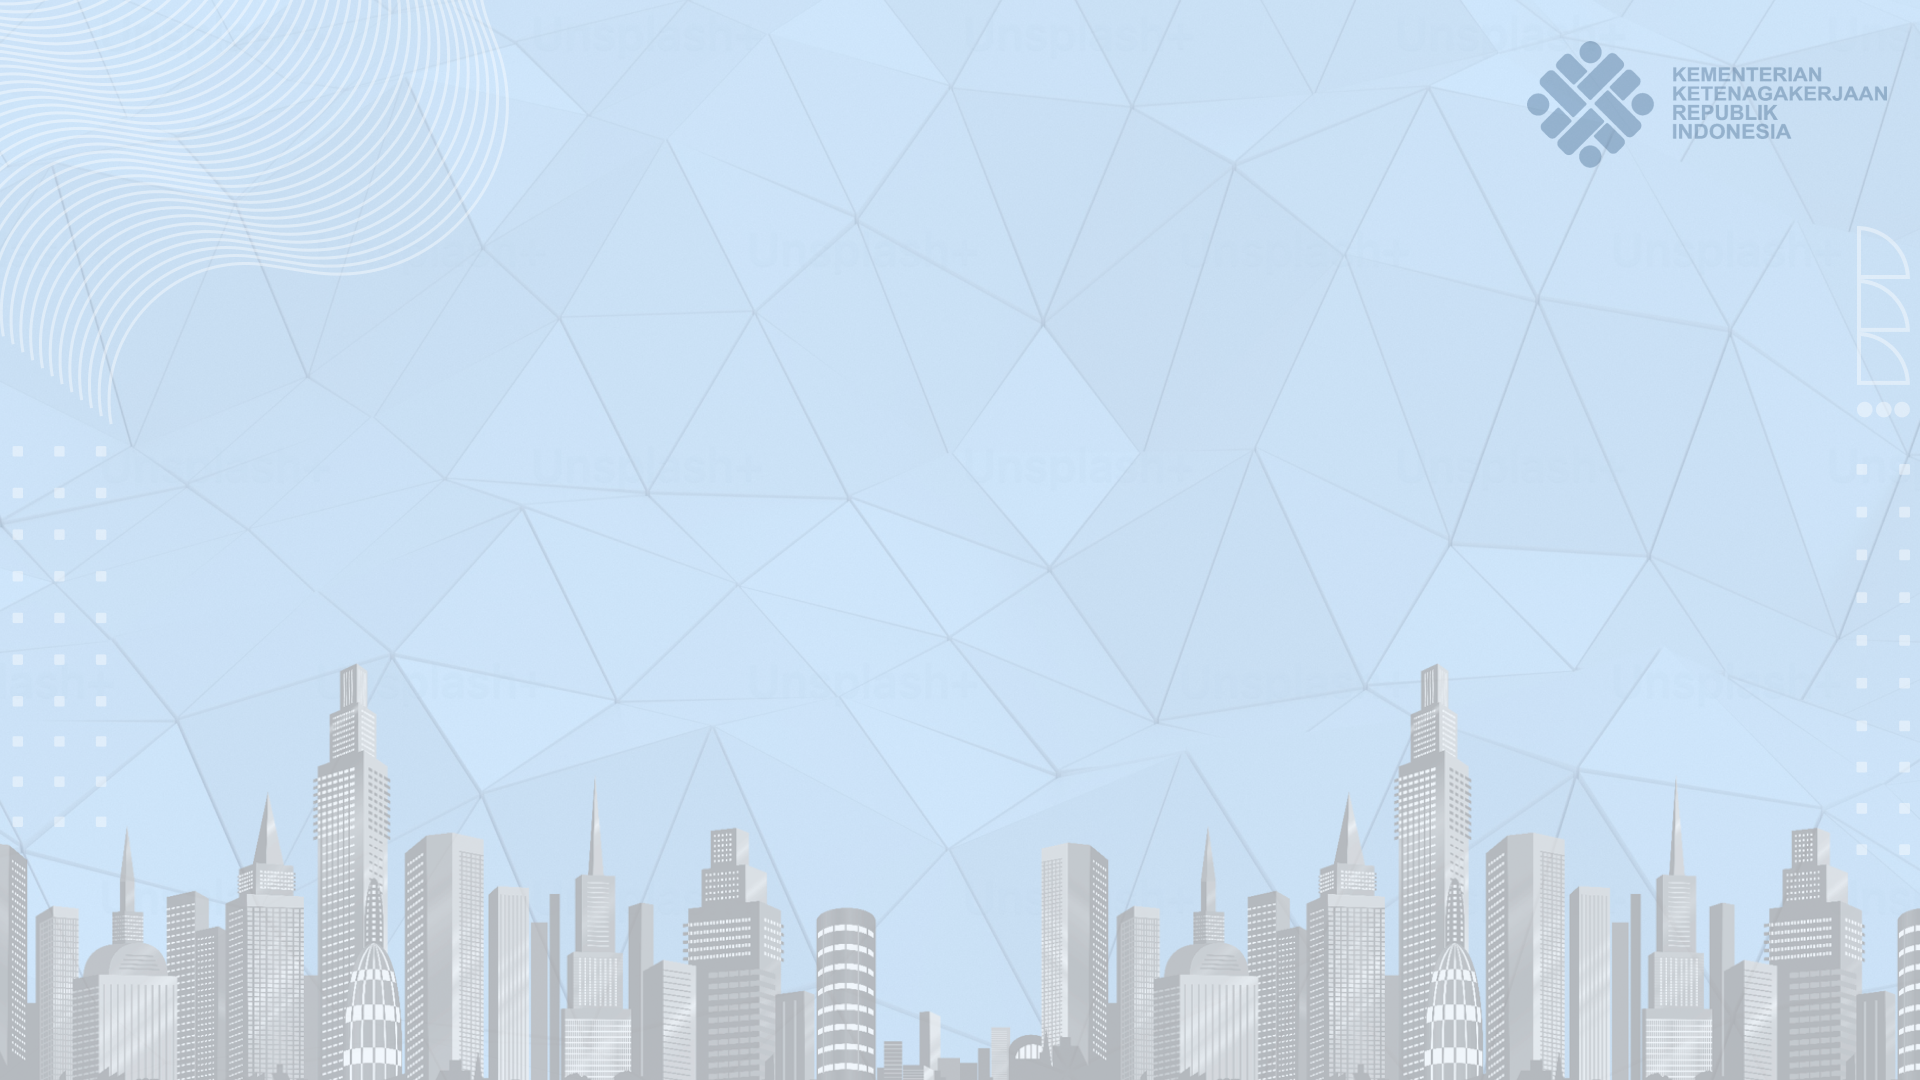
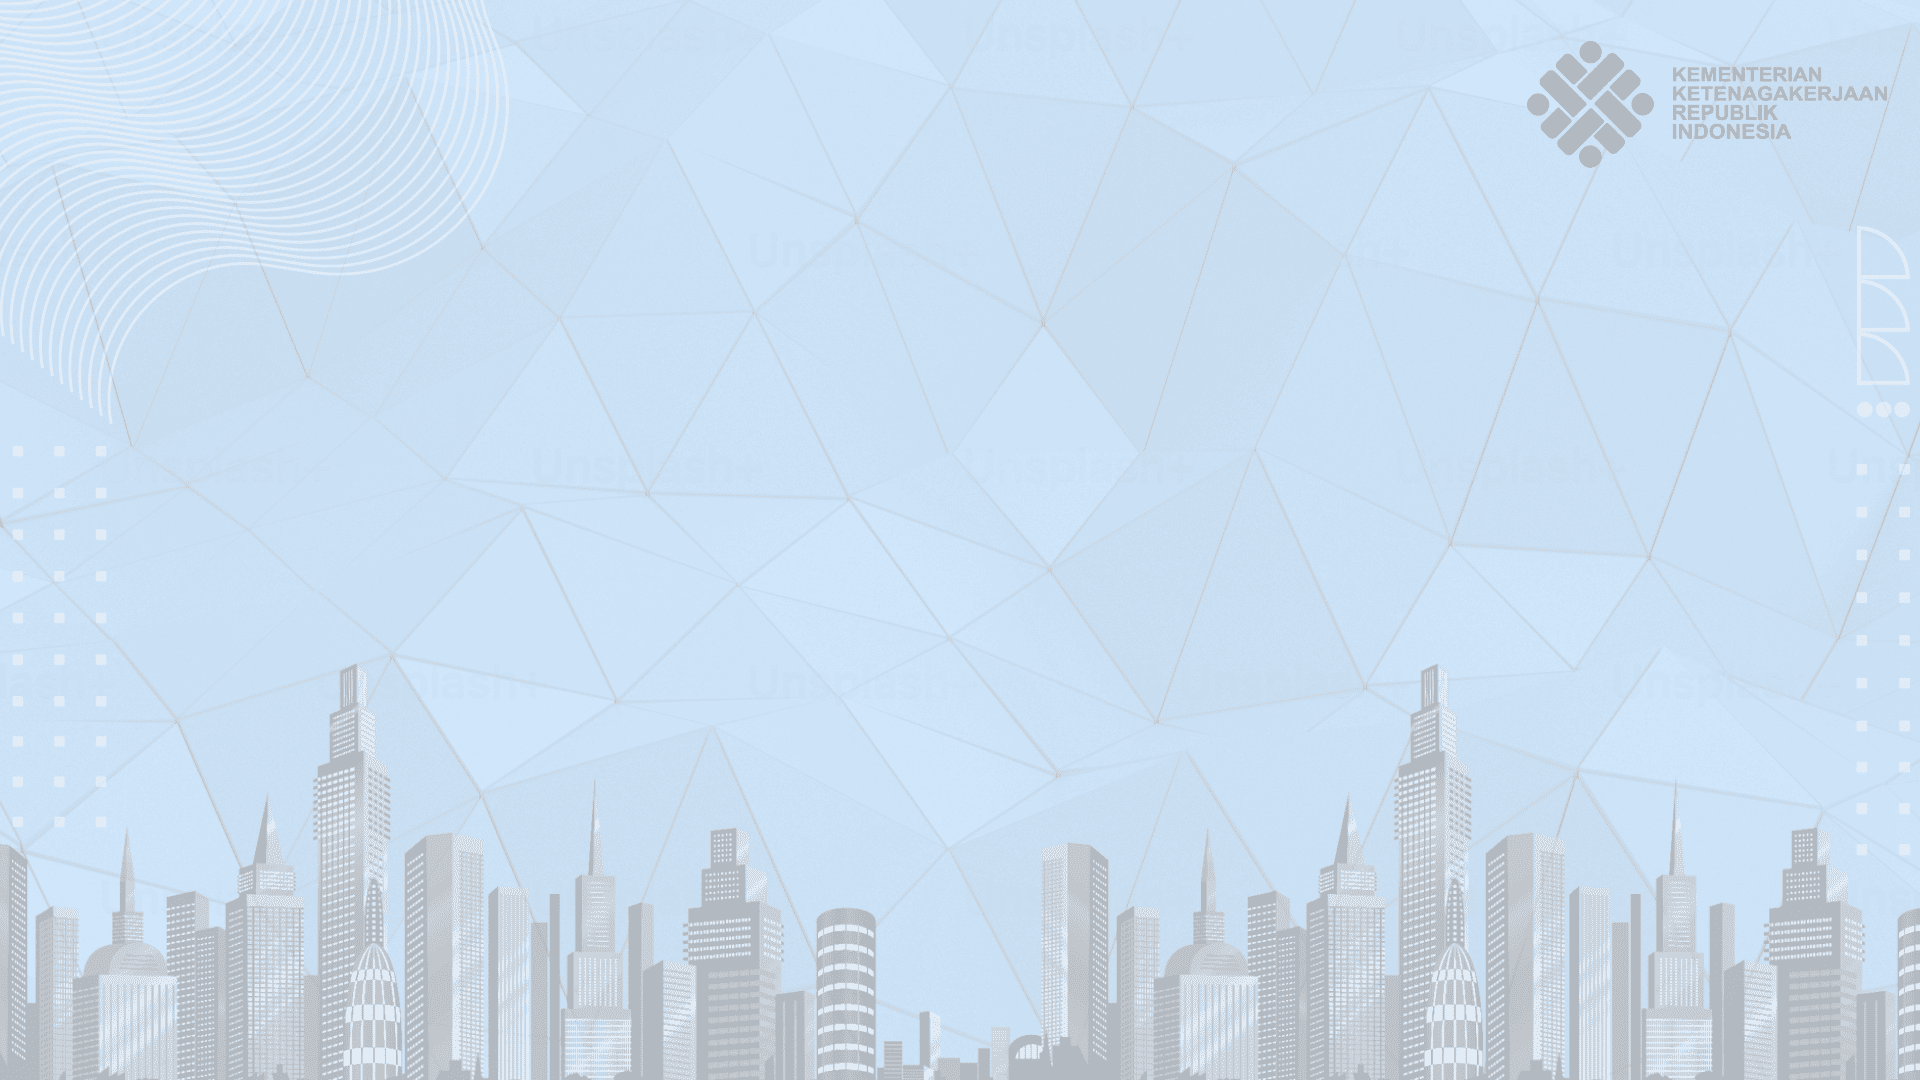
update login page

Changed region(s): [[0.7812, 0.0306, 0.9688, 0.1528]]

diff --git a/public/css/crmhq/style.css b/public/css/crmhq/style.css
@@ -26016,7 +26016,7 @@ th.fc-day-header {
   align-items: center;
   justify-content: center;
   margin: 0 auto;
-  background: url("../images/login/login_bg.jpg");
+  background: url("../../img/bg-kemnaker.png");
   background-size: cover;
   background-position: center;
   padding: 30px 12px;

diff --git a/resources/views/auth/login.blade.php b/resources/views/auth/login.blade.php
@@ -1,225 +1,85 @@
-@extends('templates.core.main')
-@section('customcss')
-    <link rel="stylesheet" href="{{ asset('css/login/index.css') }}">
-    <style>
-        body {
-            background-image: url("{{ asset('img/bg-kemnaker.png') }}") !important;
-            background-size: cover;
-            /*background-position: 350px 130px;*/
-            /*background-repeat: repeat;*/
-            /*background-size: 150px;*/
-            /*background-color: rgba(255,255,255,0.8);*/
-            /*background-blend-mode: lighten;*/
+<!DOCTYPE html>
+<html lang="en">
+<head>
+    <meta charset="utf-8">
+    <meta name="csrf-token" content="{{ csrf_token() }}">
+    <meta name="viewport" content="width=device-width, initial-scale=1">
+    <meta name="google-signin-client_id" content="732390917608-9r9gi63glh7sa2s967v58977kprk01cj.apps.googleusercontent.com">
 
-            /*background-origin: content-box;*/
-        }
+    <title>{{ config('app.long_name') }}</title>
 
-        .username::after {
-            content: '';
-            background-image: url("{{ asset('img/bhabin/icon/login/msg.svg') }}");
-
-        }
-
-        .password::after {
-            content: '';
-            background-image: url("{{ asset('img/bhabin/icon/login/lock.svg') }}");
-        }
-
-
-        @media screen and ( max-width: 412px) {
-            body {
-                background-repeat: no-repeat
-            }
-
-            .logo-image1 {
-                display: none;
-            }
-
-            .logo-image2 {
-                display: block !important;
-            }
-        }
-
-    </style>
-@endsection
-@section('mainComponent')
-<div class="container">
-    <div class="box shadow p-1 border-0" style="overflow: unset">
-        <div class="header d-flex align-items-center justify-content-center">
-            <img
-                src="{{ asset('img/logo-kemnaker.png') }}"
-                class="mr-2 mx-auto logo-image1"
-                width="300px"
-                alt="">
-        </div>
-
-        <div
-            class="form p-4 d-flex flex-column"
-            style="row-gap: 1rem"
-        >
-            @csrf
-            <h1
-                class="text-center fw-bold h5"
-                style="color: #1E4588">FORM LOGIN - DASHBOARD KETENAGAKERJAAN</h1>
-
-            <div class="form-group username w-100 align-items-center">
-                <input
-                    type="text"
-                    id="username"
-                    name="username"
-                    class="@error('email') is-invalid @enderror @error('nrp') is-invalid @enderror"
-                    value="{{ old('email') }}"
-                    placeholder="Username"
-                    autocomplete="off">
-            </div>
-            @error('email')
-            <div
-                class="invalid-feedback mx-auto d-block"
-                style="width: 90%; margin-top: -1rem">
-                <strong>{{ $message }}</strong>
-            </div>
-            @enderror
-            @error('nrp')
-            <div
-                class="invalid-feedback mx-auto d-block"
-                style="width: 90%; margin-top: -1rem">
-                <strong>{{ $message }}</strong>
-            </div>
-            @enderror
-
-            <div class="form-group password w-100">
-                <input
-                    type="password"
-                    id="password"
-                    placeholder="Password"
-                    name="password">
-                <i
-                    class="fas fa-eye-slash"
-                    onclick="hide_password()"
-                    style="display: none; position: absolute; right: 5%; top: 50%; transform: translateY(-50%); cursor: pointer"></i>
-
-                <i
-                    class="far fa-eye show_password"
-                    onclick="show_password()"
-                    style="position: absolute; right: 5%; top: 50%; transform: translateY(-50%); cursor: pointer"></i>
-            </div>
-            @error('password')
-            <div
-                class="invalid-feedback mx-auto d-block"
-                style="width: 90%; margin-top: -1rem">
-                <strong>{{ $message }}</strong>
-            </div>
-            @enderror
-
-            <div
-                class="d-flex flex-column flex-sm-row"
-                style="row-gap: 0.6rem; column-gap: 1rem">
-                <div
-                    id="chaptcha-img"
-                    class="d-flex justify-content-center justify-content-sm-start align-items-center"
-                    style="column-gap: 1rem">
-                    <img
-                        src=""
-                        alt="chaptcha image"
-                        width="150px"
-                        height="50px"
-                        class="mb-0"
-                        style="border: 1px solid #1E4588">
-                    <a
-                        href="javascript:void(0)"
-                        onclick="refreshCaptcha()"
-                        class="btn btn-sm btn-primary"
-                        title="Refresh Captcha">
-                        <i class="fas fa-sync"></i>
-                    </a>
-                </div>
-                <input
-                    type="text"
-                    name="captcha"
-                    id="captcha"
-                    class="form-control form-group"
-                    placeholder="Masukkan angka yang muncul, di sini"
-                    autocomplete="off">
-            </div>
-
-            <div
-                class="form-group button w-100 border-0 mt-2"
-                style="background: none !important; column-gap: 1rem">
-                <button
-                    class="mt-0 w-100 fw-bold"
-                    style="background: #1E4588; border-radius: 7px; color: white"
-                    onclick="submitForm()"
+    <script src="https://cdn.tailwindcss.com" defer></script>
+    <link rel="stylesheet" href="{{ asset('css/crmhq/vendors_css.css') }}">
+    <link rel="stylesheet" href="{{ asset('css/crmhq/tailwind.min.css') }}">
+    <link rel="stylesheet" href="{{ asset('css/crmhq/style.css') }}">
+    <link rel="stylesheet" href="{{ asset('css/crmhq/skin_color.css') }}">
+</head>
+<body
+    class="hold-transition theme-primary bg-img"
+    style="background-image: url('{{ asset('img/bg-kemnaker.png') }}')"
+>
+    <div class="login-card login-dark">
+        <div class="login-main">
+            <div class="theme-form">
+                <img
+                    src="{{ asset('img/logo-kemnaker-biru.png') }}"
+                    class="mx-auto w-64 mb-20 pb-20"
+                    alt="Kemnaker Logo"
                 >
-                    Masuk
-                </button>
-                <div
-                    class="w-100 dropdown">
-                    <button
-                        type="button"
-                        id="dropdownRegister"
-                        style="width: 100%; border-radius: 7px; background: #a9c0e9; color: #333"
-                        class="mt-0 dropdown-toggle"
-                        data-bs-toggle="dropdown"
-                        aria-expanded="false">Daftar</button>
+                <div class="relative w-full">
+                    {{-- <label for="input-label" class="block text-sm font-medium mb-2 dark:text-white">Email Address</label> --}}
+                    <input
+                        type="email"
+                        id="input-label"
+                        class="border-1 py-3 px-4 block w-full border-gray-200 rounded-lg text-sm focus:border-blue-500 focus:ring-blue-500 disabled:opacity-50 disabled:pointer-events-none dark:bg-slate-900 dark:border-gray-700 dark:text-gray-400 dark:focus:ring-gray-600"
+                        placeholder="email@domain.com"
+                    >
                 </div>
+                <label class="font-medium block mb-1 mt-4 text-gray-700" for="password">
+                    Password
+                </label>
+                <div class="relative w-full">
+                    <input
+                        class=" border-1 rounded w-full py-3 px-3 leading-tight border-gray-300 bg-gray-100 focus:outline-none focus:border-indigo-700 focus:bg-white text-gray-700 pr-16 font-mono js-password"
+                        id="password"
+                        type="password"
+                        name="login[password]"
+                        autocomplete="off"
+                        placeholder="*********"
+                    />
+                </div>
+                <div class="form-group mt-7 flex items-center justify-between">
+                    <div class="checkbox flex items-center p-0">
+                        <input id="checkbox1" type="checkbox" class="mr-2">
+                        <label class="text-muted" for="checkbox1">Remember password</label>
+                    </div>
+                    <a class="link text-blue-500" href="#">Forgot password?</a>
+                </div>
+                
+                <div class="text-end mt-6">
+                    <button
+                        class="btn btn-dark btn-block rounded-md text-white w-full"
+                        type="submit"
+                        onclick="submitForm()"
+                    >
+                        Sign in
+                    </button>
+                </div>
+                <p class="mt-4 !mb-0 text-center">
+                    Don't have account?
+                    <a class="ms-2 text-blue-500" href="#">Create Account</a>
+                </p>
             </div>
-
-            @if (Route::has('password.request'))
-            <div
-                class="w-100 d-flex justify-content-center"
-                style="column-gap: 0.6rem">
-                <a
-                    href=""
-                    class="fw-bold">Lupa Password?</a>
-            </div>
-            @endif
         </div>
     </div>
-</div>
-@endsection
-@section('customjs')
-    <script src="{{ asset('js/login/index.js') }}"></script>
-
     <script>
-        const screen = window.innerWidth
-        const logoImage1 = document.querySelector('.logo-image1')
-        const logoImage2 = document.querySelector('.logo-image2')
-
-        if (screen <= 412) {
-            logoImage1.style.display = 'none'
-            logoImage2.style.display = 'block'
-        }
-
-        function submitForm(el)
+        function submitForm(e)
         {
-            submitFormLoader()
             setTimeout(() => {
                 window.location.href = '/administrator';
             }, 300)
         }
-
-        async function getCaptcha() {
-            try {
-                const response = await fetch(route('captcha'))
-                const blob = await response.blob()
-
-                hideFormLoader()
-
-                const url = URL.createObjectURL(blob)
-
-                const captchaImage = document.querySelector('#chaptcha-img img')
-                captchaImage.src = url
-            } catch (error) {
-                console.log(error)
-            }
-        }
-        getCaptcha()
-
-        function refreshCaptcha() {
-            getCaptcha()
-
-            const captchaInput = document.querySelector('#captcha')
-            captchaInput.value = ''
-        }
     </script>
-@endsection
+    <script src="{{ asset('js/crmhq/vendors.min.js') }}"></script>
+</body>
+</html>
